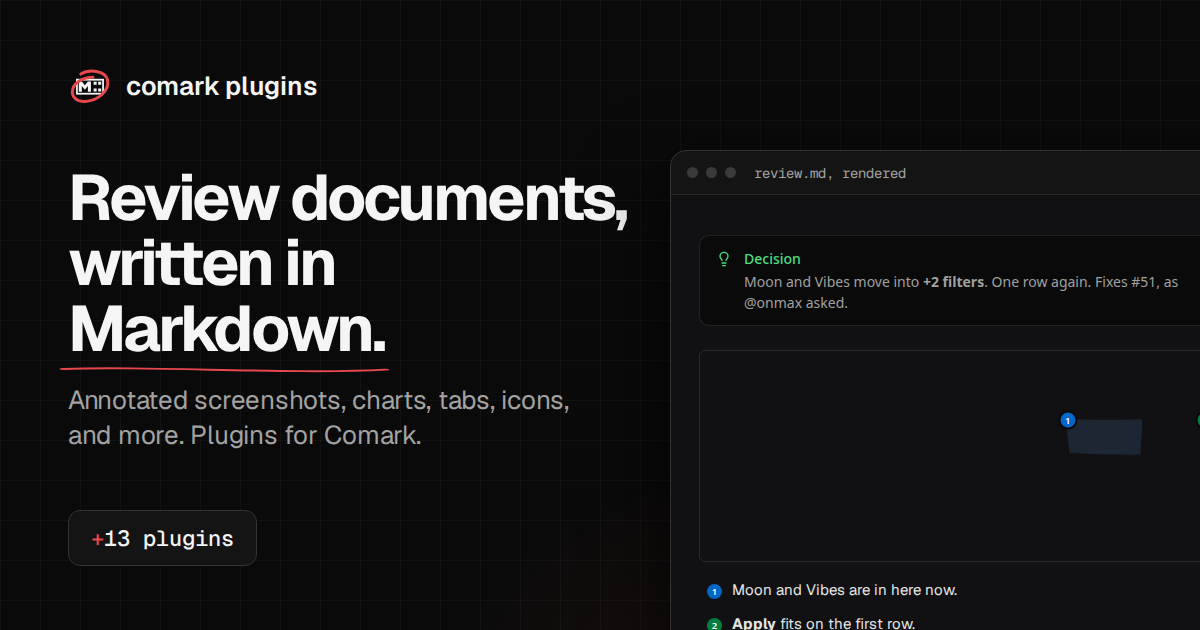
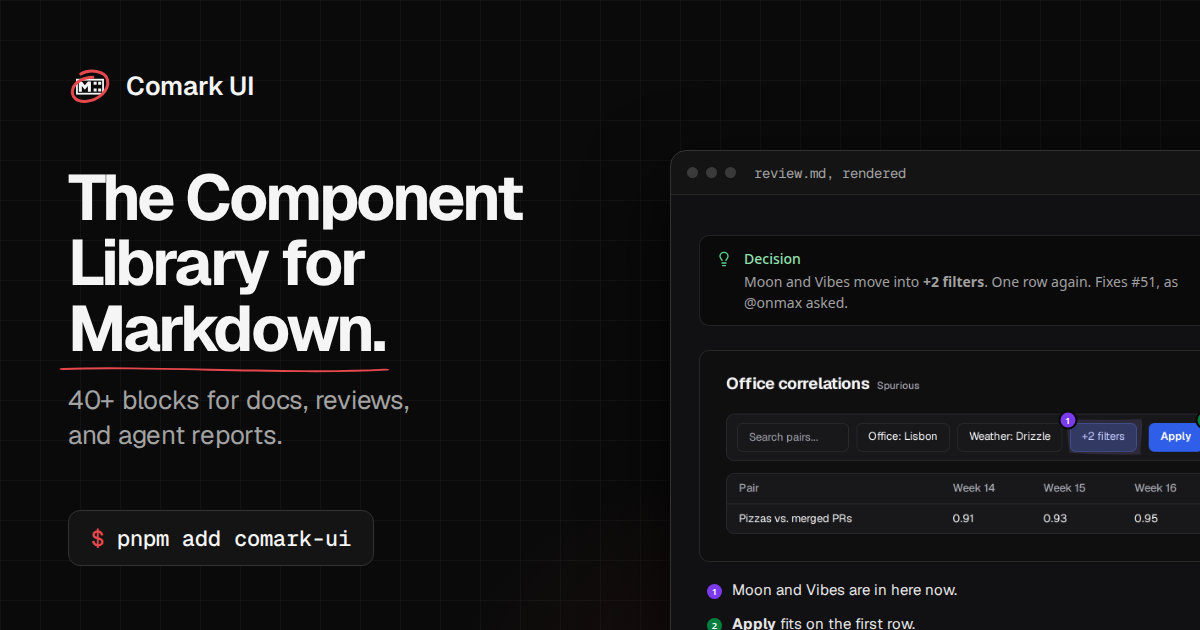
docs: regenerate the Open Graph card and title the linter page Linter

diff --git a/docs/images.ts b/docs/images.ts
@@ -1,8 +1,8 @@
 // Draws the docs' images in headless Chromium: the screens of Spurious, the made-up app the annotate examples mark up;
-// the annotated screenshot at the top of annotate's README; the site's Open Graph image; and the README banner. Run it
-// after changing any of them with `pnpm docs:images`. It prints the box of each marked element in the app, as
+// the annotated screenshot at the top of annotate's README; and the site's Open Graph image. Run it after changing any
+// of them with `pnpm docs:images`. It prints the box of each marked element in the app, as
 // annotation props, so the examples can point at it.
-import { mkdir, readdir, readFile, writeFile } from "node:fs/promises";
+import { mkdir, readFile, writeFile } from "node:fs/promises";
 import { renderHtmlFromDocument } from "@comark/html";
 import { chromium, type Browser } from "@playwright/test";
 import { parseMarkdown } from "comark";
@@ -14,17 +14,6 @@ const root = new URL("./", import.meta.url);
 const pub = new URL("public/", root);
 const fonts = new URL("../node_modules/geist/dist/fonts/", root);
 const red = "#e5484d";
-// The banner counts the packages instead of naming one.
-const plugins = (
-  await Promise.all(
-    (await readdir(new URL("../packages/", root))).map((dir) =>
-      readFile(new URL(`../packages/${dir}/package.json`, root)).then(
-        () => true,
-        () => false,
-      ),
-    ),
-  )
-).filter(Boolean).length;
 
 // The pages are set as content, with no origin to load files from, so fonts and images go in as data URLs.
 const font = async (family: string, file: string) =>
@@ -194,27 +183,21 @@ The pigeons ate week 15.
 
   await mkdir(new URL("og/", pub), { recursive: true });
   const index = await readFile(new URL("pages/index.md", root), "utf8");
-  // The hero shows a broken block first and its fix last; the banner draws the fix.
+  // The hero shows a broken block first and its fix last; the card draws the fix.
   const hero = [
     ...(/^::hero\n([\s\S]*?^````)\n::$/m.exec(index)?.[1].matchAll(/````md\n([\s\S]*?)````/g) ??
       []),
   ].at(-1)?.[1];
   if (!hero) throw new Error("docs/pages/index.md needs a ::hero with a ````md block.");
   const example = await render(hero, darkScreens);
-  for (const [file, width, height, scale] of [
-    ["home.png", 1200, 630, 1],
-    ["readme-banner.png", 1600, 560, 2],
-  ] as const) {
-    const og = await browser.newPage({
-      viewport: { width, height },
-      deviceScaleFactor: scale,
-      colorScheme: "dark",
-    });
-    await og.setContent(brand(file === "home.png", example), { waitUntil: "load" });
-    await og.evaluate(() => document.fonts.ready);
-    await og.screenshot({ path: new URL(`og/${file}`, pub).pathname });
-    await og.close();
-  }
+  const og = await browser.newPage({
+    viewport: { width: 1200, height: 630 },
+    colorScheme: "dark",
+  });
+  await og.setContent(brand(example), { waitUntil: "load" });
+  await og.evaluate(() => document.fonts.ready);
+  await og.screenshot({ path: new URL("og/home.png", pub).pathname });
+  await og.close();
 } finally {
   await browser.close();
 }
@@ -229,37 +212,35 @@ async function render(markdown: string, images: Map<string, string>) {
   ).replace(/src="\/([\w.-]+\.png)"/g, (_, file: string) => `src="${images.get(file)}"`);
 }
 
-// The Open Graph image and the banner share a layout. The banner is wider and shorter, so its window shrinks the
-// page to show the notes too.
-function brand(og: boolean, example: string) {
-  const zoom = og ? 1 : 0.8;
+// The Open Graph image says what the README banner (.github/banner.svg) says, beside a review the plugins rendered.
+function brand(example: string) {
   return html(
     `html,body{width:100%;height:100%;overflow:hidden}
 body{--fg:#f5f5f5;--muted:#a3a3a3;--line:#262626;background:#0a0a0a;color:var(--fg);font-family:Geist,sans-serif;position:relative;
   background-image:radial-gradient(60rem 30rem at 85% 110%,rgb(229 72 77/.16),transparent 60%),
     linear-gradient(#ffffff08 1px,transparent 1px),linear-gradient(90deg,#ffffff08 1px,transparent 1px);
   background-size:auto,40px 40px,40px 40px}
-.copy{position:absolute;left:${og ? 68 : 88}px;top:${og ? 64 : 72}px;bottom:${og ? 64 : 72}px;width:${og ? 560 : 760}px;display:flex;flex-direction:column}
-.brand{display:flex;align-items:center;gap:14px;font-size:${og ? 26 : 28}px;font-weight:600;letter-spacing:-.01em}
-.brand svg{width:${og ? 44 : 48}px;height:${og ? 44 : 48}px}
-.copy h1{margin:auto 0 0;font-size:${og ? 64 : 76}px;line-height:1.02;letter-spacing:-.045em;font-weight:700}
+.copy{position:absolute;left:68px;top:64px;bottom:64px;width:560px;display:flex;flex-direction:column}
+.brand{display:flex;align-items:center;gap:14px;font-size:26px;font-weight:600;letter-spacing:-.01em}
+.brand svg{width:44px;height:44px}
+.copy h1{margin:auto 0 0;font-size:64px;line-height:1.02;letter-spacing:-.045em;font-weight:700}
 .copy h1 .marked{position:relative;white-space:nowrap}
 .copy h1 .marked svg{position:absolute;left:-4%;bottom:-.2em;height:.36em;width:108%;fill:none;stroke:${red};stroke-width:5;stroke-linecap:round;overflow:visible}
-.copy p{margin:${og ? 22 : 26}px 0 0;font-size:26px;line-height:1.35;color:var(--muted);letter-spacing:-.01em}
+.copy p{margin:22px 0 0;font-size:26px;line-height:1.35;color:var(--muted);letter-spacing:-.01em}
 .install{margin-top:auto;align-self:flex-start;font:500 22px/1 "Geist Mono",monospace;padding:16px 22px;border:1px solid #333;border-radius:12px;background:#141414}
 .install span{color:${red}}
-.window{position:absolute;right:${og ? -70 : 88}px;top:${og ? 150 : 48}px;width:${og ? 600 : 640}px;height:${og ? 560 : 464}px;border:1px solid #333;border-radius:16px;background:#141414;overflow:hidden;box-shadow:0 30px 80px #000c}
+.window{position:absolute;right:-70px;top:150px;width:600px;height:560px;border:1px solid #333;border-radius:16px;background:#141414;overflow:hidden;box-shadow:0 30px 80px #000c}
 .bar{display:flex;align-items:center;gap:8px;height:44px;padding:0 16px;border-bottom:1px solid var(--line);font:14px "Geist Mono",monospace;color:var(--muted)}
 .bar i{width:11px;height:11px;border-radius:50%;background:#3a3a3a}
 .bar b{margin-left:10px;font-weight:400}
-.page{zoom:${zoom};height:calc((100% - 44px) / ${zoom});padding:24px 28px;background:#111113;color:#e5e5e5;font-size:15px;line-height:1.5;--comark-radius:10px}
+.page{height:calc(100% - 44px);padding:24px 28px;background:#111113;color:#e5e5e5;font-size:15px;line-height:1.5;--comark-radius:10px}
 .page img{max-width:100%}
 .page>:first-child{margin-top:0}`,
     `<div class="copy">
-<div class="brand">${logo}comark ui</div>
-<h1>Review documents,<br>written in <span class="marked">Markdown.${underline}</span></h1>
-<p>Annotated screenshots, charts, tabs, icons,<br>and more. Plugins for Comark.</p>
-<div class="install"><span>+</span>${plugins} plugins</div>
+<div class="brand">${logo}Comark UI</div>
+<h1>The Component Library for <span class="marked">Markdown.${underline}</span></h1>
+<p>40+ blocks for docs, reviews,<br>and agent reports.</p>
+<div class="install"><span>$</span> pnpm add comark-ui</div>
 </div>
 <div class="window"><div class="bar"><i></i><i></i><i></i><b>review.md, rendered</b></div><div class="page">${example}</div></div>`,
   );

diff --git a/packages/lint/docs/index.md b/packages/lint/docs/index.md
@@ -1,5 +1,5 @@
 ---
-title: comark-linter
+title: Linter
 description: Finds unclosed blocks, unknown components, broken links and anchors, local URLs, and plugin issues in Comark documents.
 keywords: linter, lint, ESLint, check, validate, validation, CI, Vite Doctor, markdownlint, errors, diagnostics, broken links, CLI
 tagline: A linter for Comark documents that runs from the command line, a script, ESLint, or Vite Doctor.
